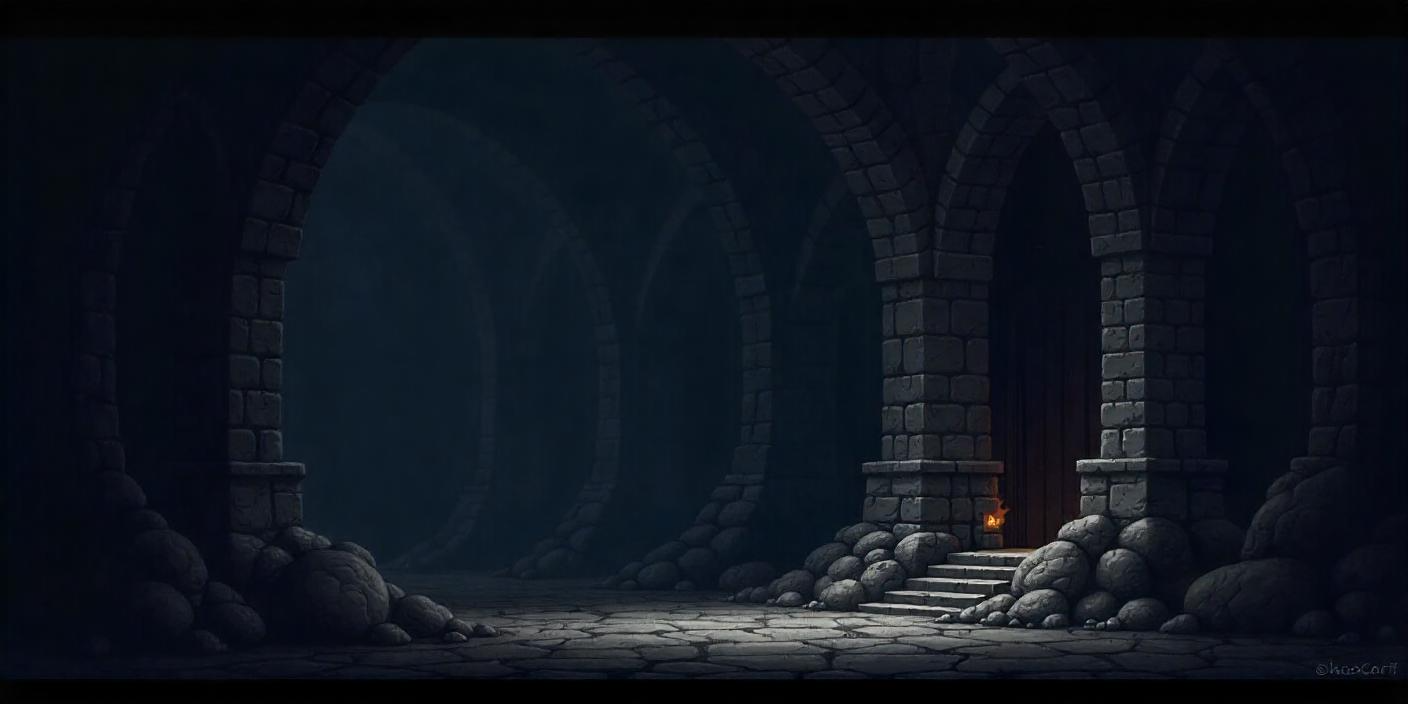
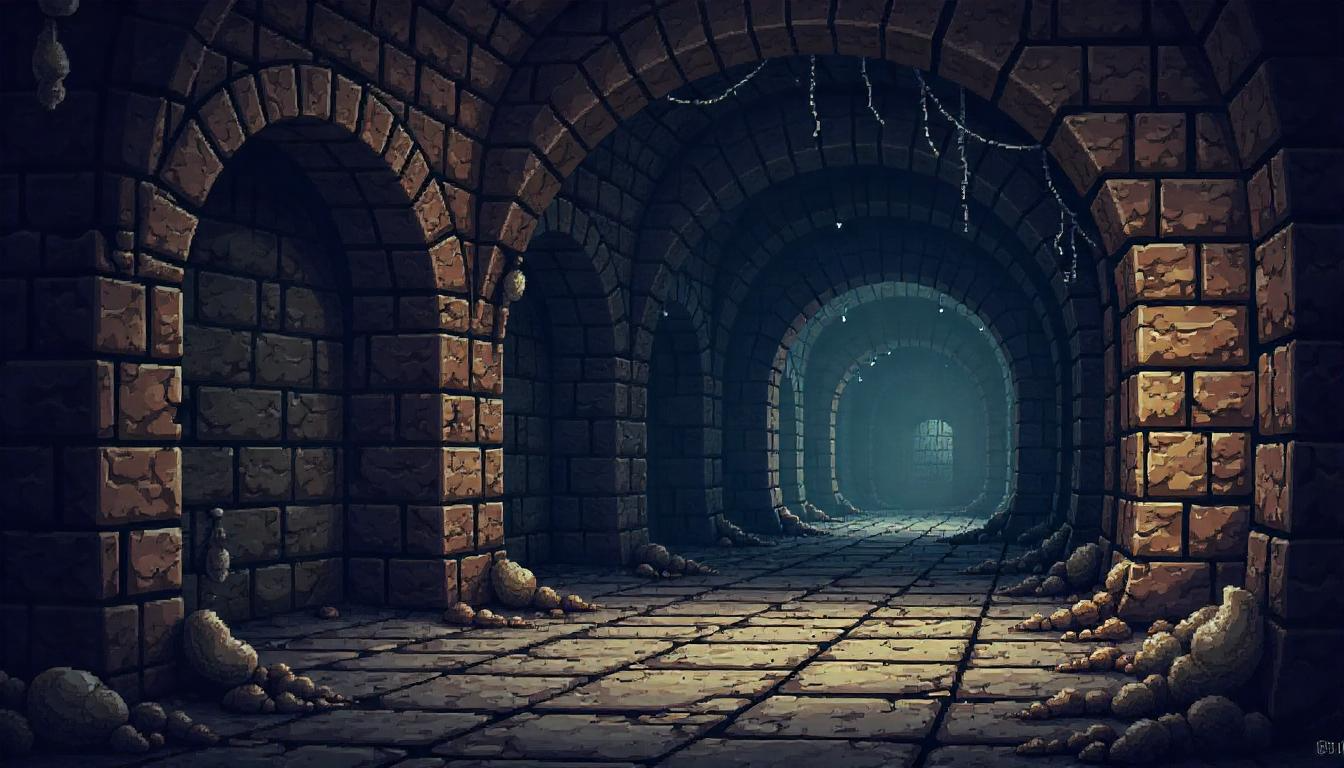
textury konec
dokonceni textur a lvls

diff --git a/Frank's maze.py b/Frank's maze.py
@@ -33,11 +33,9 @@ BLACK = (0, 0, 0)  # Barva stěn
 GREEN = (0, 0, 0)  # Barva pozadí
 BROWN=(169,66,19) #casovac
 
-
 Background_menu = pygame.image.load('background.png')
 image_width, image_height = Background_menu.get_size()
 pomer_stran = image_width / image_height
-# Nové rozměry, které zachovají poměr stran a přizpůsobí obrázek obrazovce
 if Hlavni_screen_X / Hlavni_screen_Y > pomer_stran:
     new_width = int(Hlavni_screen_Y * pomer_stran)
     new_height = Hlavni_screen_Y
@@ -51,111 +49,40 @@ Obraz = pygame.display.set_mode((Hlavni_screen_X, Hlavni_screen_Y))
 
 start_button = pygame.image.load('start_button.png')    
 quit_button = pygame.image.load('quit_button.png')
-
 start_button_rect = start_button.get_rect()
-quit_button_rect = quit_button.get_rect()
-
+quit_button_rect = quit_button.get_rect()                      #buttons
 start_button_rect.topleft = ((Hlavni_screen_X - start_button_rect.width) // 2, (Hlavni_screen_Y // 2) - 200)  
 quit_button_rect.topleft = ((Hlavni_screen_X - quit_button_rect.width) // 2, (Hlavni_screen_Y // 2) + 395)  
 
 velikost_policka = 40
 Herni_okno_X = 1400
-Herni_okno_Y = 800
-Herni_okno = pygame.Surface((Herni_okno_X, Herni_okno_Y))
-background_herni = pygame.image.load("background_herni_image.png")
-background_herni = pygame.transform.scale(background_herni, (Herni_okno_X, Herni_okno_Y))
+Herni_okno_Y = 800                       
 
-maze_lvl_1 = [
- [1, 1, 1, 1, 1, 1, 1, 1, 1, 1, 1, 1, 1, 1, 1, 1, 1, 1, 1, 1, 1, 1, 1, 1, 1, 1, 1, 1, 1, 1, 1, 1, 1, 1, 1],
-[1, 0, 2, 0, 0, 0, 0, 0, 0, 0, 0, 0, 1, 0, 0, 0, 0, 0, 0, 0, 1, 0, 0, 0, 0, 0, 0, 0, 0, 0, 0, 0, 0, 0, 1],
-[1, 0, 1, 1, 1, 1, 1, 0, 1, 1, 1, 0, 1, 0, 1, 1, 1, 1, 1, 0, 1, 0, 1, 1, 1, 1, 1, 1, 1, 1, 1, 1, 1, 0, 1],
-[1, 0, 1, 0, 0, 1, 0, 0, 0, 1, 0, 0, 0, 0, 0, 0, 0, 0, 1, 0, 0, 0, 1, 0, 0, 0, 0, 0, 0, 0, 0, 0, 1, 0, 1],
-[1, 0, 1, 1, 0, 1, 1, 1, 0, 0, 1, 1, 1, 1, 1, 1, 1, 0, 1, 1, 1, 1, 1, 0, 1, 1, 1, 1, 1, 1, 1, 0, 1, 1, 1],
-[1, 0, 0, 0, 0, 0, 0, 0, 1, 0, 0, 0, 0, 0, 0, 0, 0, 0, 0, 0, 0, 0, 0, 0, 1, 0, 0, 0, 0, 0, 0, 0, 1, 0, 1],
-[1, 1, 1, 1, 1, 1, 1, 0, 1, 0, 1, 1, 1, 1, 1, 1, 1, 1, 1, 0, 1, 0, 1, 1, 1, 0, 1, 1, 1, 1, 0, 1, 1, 0, 1],
-[1, 0, 0, 0, 0, 0, 0, 0, 1, 0, 0, 0, 0, 0, 1, 0, 0, 0, 0, 0, 1, 0, 0, 0, 0, 0, 0, 0, 0, 0, 0, 0, 0, 0, 0 ,1],
-[1, 0, 1, 1, 1, 1, 1, 1, 1, 1, 1, 1, 1, 0, 1, 0, 1, 1, 1, 1, 1, 0, 1, 1, 1, 1, 1, 1, 1, 1, 1, 1, 1, 1, 0 ,1],
-[1, 0, 0, 0, 0, 0, 0, 0, 0, 0, 0, 0, 1, 0, 1, 0, 0, 0, 0, 0, 1, 0, 0, 0, 0, 1, 0, 0, 0, 0, 0, 0, 0, 0, 0 ,1],
-[1, 1, 0, 1, 1, 1, 1, 1, 1, 1, 1, 0, 1, 0, 1, 1, 1, 1, 1, 0, 1, 1, 1, 1, 1, 1, 1, 1, 1, 1, 1, 1, 1, 0, 1],
-[1, 0, 0, 0, 0, 0, 1, 0, 0, 0, 0, 0, 1, 0, 0, 0, 0, 0, 1, 0, 0, 0, 0, 0, 0, 0, 0, 0, 0, 0, 0, 0, 1, 0, 1],
-[1, 0, 1, 1, 1, 0, 1, 0, 1, 1, 1, 1, 1, 1, 1, 1, 1, 0, 1, 1, 1, 1, 1, 0, 1, 1, 1, 1, 1, 1, 1, 0, 1, 0, 1],
-[1, 0, 1, 0, 0, 0, 1, 0, 0, 0, 0, 0, 0, 0, 0, 0, 1, 0, 0, 0, 0, 0, 0, 0, 0, 0, 0, 0, 0, 0, 1, 0, 1, 0, 1],
-[1, 0, 1, 0, 1, 1, 1, 1, 1, 0, 1, 1, 1, 1, 1, 0, 1, 1, 1, 1, 1, 1, 1, 1, 1, 1, 0, 1, 1, 0, 1, 0, 1, 0, 1],
-[1, 0, 1, 0, 0, 0, 0, 0, 0, 0, 0, 0, 0, 0, 1, 0, 0, 0, 0, 0, 0, 1, 0, 0, 0, 0, 0, 0, 1, 0, 1, 0, 0, 0, 1],
-[1, 0, 1, 0, 1, 1, 1, 1, 1, 1, 1, 1, 1, 0, 1, 1, 0, 1, 1, 1, 0, 1, 1, 1, 1, 1, 1, 0, 1, 0, 1, 1, 1, 0, 1],
-[1, 0, 0, 0, 0, 0, 0, 0, 0, 0, 0, 0, 1, 0, 0, 1, 0, 1, 0, 0, 0, 0, 0, 0, 0, 0, 1, 0, 1, 0, 0, 0, 1, 0, 1],
-[1, 1, 1, 0, 1, 1, 1, 1, 1, 1, 1, 0, 1, 1, 1, 1, 0, 1, 1, 1, 1, 1, 1, 1, 1, 0, 1, 0, 1, 1, 1, 1, 1, 0, 1],
-[1, 0, 0, 0, 0, 0, 0, 0, 1, 0, 0, 0, 0, 0, 0, 0, 0, 0, 1, 0, 0, 0, 0, 0, 0, 0, 1, 0, 0, 0, 0, 0, 1, 2, 1],
-[1, 1, 1, 1, 1, 1, 1, 1, 1, 1, 1, 1, 1, 1, 1, 1, 1, 1, 1, 1, 1, 1, 1, 1, 1, 1, 1, 1, 1, 1, 1, 1, 1, 1, 1],
+Herni_okno = pygame.Surface((Herni_okno_X, Herni_okno_Y))
+
+#pozadi lvls
+background_lvls = [
+    pygame.image.load('Background_herni_image1.png'),  
+    pygame.image.load('Background_herni_image2.png'),  
+    pygame.image.load('Background_herni_image3.png'),  
+    pygame.image.load('Background_herni_image4.png')   
 ]
-maze_lvl_2 = [
-[1, 1, 1, 1, 1, 1, 1, 1, 1, 1, 1, 1, 1, 1, 1, 1, 1, 1, 1, 1, 1, 1, 1, 1, 1, 1, 1, 1, 1, 0, 1, 1, 1, 1 ,1],
-[1, 0, 0, 0, 0, 1, 1, 0, 0, 0, 0, 0, 1, 0, 1, 0, 1, 0, 1, 1, 0, 0, 0, 1, 0, 0, 0, 1, 1, 0, 0, 0, 0, 0 ,1],
-[1, 1, 1, 1, 0, 0, 0, 0, 1, 1, 1, 0, 1, 0, 1, 0, 1, 0, 0, 1, 0, 1, 0, 1, 0, 1, 0, 0, 0, 0, 1, 1, 1, 0 ,1],
-[1, 0, 0, 0, 0, 1, 1, 0, 1, 0, 0, 0, 0, 0, 1, 0, 1, 1, 0, 0, 0, 1, 0, 0, 0, 0, 0, 1, 1, 1, 1, 0, 1, 0 ,1],
-[1, 0, 1, 1, 1, 1, 1, 0, 1, 0, 1, 1, 1, 0, 0, 0, 1, 0, 0, 1, 1, 1, 1, 1, 1, 1, 1, 1, 0, 0, 1, 0, 0, 0 ,1],
-[1, 0, 0, 0, 0, 0, 0, 0, 1, 0, 0, 1, 0, 0, 1, 0, 1, 0, 1, 1, 0, 0, 0, 0, 0, 0, 0, 0, 0, 0, 1, 1, 1, 1 ,1],
-[1, 0, 1, 1, 1, 1, 1, 1, 1, 1, 0, 1, 0, 1, 1, 0, 1, 0, 1, 1, 0, 1, 1, 1, 1, 1, 1, 1, 1, 0, 0, 0, 0, 0 ,1],
-[1, 0, 0, 0, 1, 1, 1, 1, 0, 0, 0, 1, 0, 1, 0, 0, 1, 0, 0, 0, 0, 1, 1, 0, 0, 0, 0, 0, 1, 1, 1, 1, 1, 0 ,1],
-[1, 1, 1, 0, 1, 0, 0, 0, 0, 1, 0, 1, 0, 0, 0, 1, 1, 1, 0, 1, 0, 0, 1, 0, 1, 1, 0, 0, 0, 0, 0, 0, 1, 0 ,1],
-[1, 0, 0, 0, 1, 0, 1, 1, 1, 1, 0, 1, 0, 1, 1, 1, 0, 1, 0, 1, 0, 0, 1, 0, 1, 1, 1, 1, 1, 1, 1, 1, 1, 0 ,1],
-[1, 0, 0, 0, 0, 0, 1, 0, 0, 0, 0, 1, 0, 1, 0, 0, 0, 0, 0, 1, 1, 1, 1, 0, 0, 0, 0, 0, 0, 0, 0, 0, 0, 0 ,1],
-[1, 0, 1, 1, 1, 1, 1, 0, 1, 1, 1, 1, 0, 1, 1, 1, 1, 0, 1, 1, 1, 0, 1, 1, 1, 1, 1, 1, 1, 1, 1, 1, 1, 1 ,1],
-[1, 0, 0, 0, 0, 0, 0, 0, 1, 1, 0, 0, 0, 1, 0, 0, 0, 0, 1, 0, 0, 0, 0, 0, 0, 0, 0, 0, 0, 0, 0, 0, 0, 0 ,0,1],
-[1, 1, 1, 1, 1, 1, 1, 1, 1, 1, 0, 1, 1, 1, 0, 1, 1, 1, 1, 1, 1, 0, 1, 1, 0, 1, 0, 1, 1, 0, 1, 1, 1, 0 ,1],
-[1, 0, 0, 0, 0, 0, 1, 0, 0, 0, 0, 1, 1, 0, 0, 1, 0, 0, 0, 0, 1, 0, 1, 1, 0, 1, 0, 1, 1, 0, 1, 0, 1, 0 ,1],
-[1, 0, 1, 1, 0, 1, 1, 0, 1, 1, 1, 1, 1, 0, 1, 1, 0, 1, 1, 1, 1, 0, 1, 0, 0, 1, 0, 1, 0, 0, 0, 0, 1, 0 ,1],
-[1, 0, 0, 1, 0, 0, 0, 0, 0, 0, 0, 0, 0, 0, 1, 1, 0, 1, 1, 0, 1, 0, 1, 0, 1, 1, 0, 1, 0, 1, 1, 0, 1, 0 ,1],
-[1, 1, 0, 1, 0, 1, 1, 1, 1, 1, 1, 1, 1, 1, 1, 0, 0, 0, 0, 0, 1, 0, 1, 0, 1, 0, 0, 1, 0, 0, 1, 1, 1, 1 ,1],
-[1, 0, 0, 0, 0, 0, 0, 0, 0, 0, 0, 0, 0, 0, 0, 0, 0, 1, 1, 0, 0, 0, 1, 0, 0, 0, 1, 1, 0, 0, 0, 0, 0, 2 ,1],
-[1, 1, 1, 1, 1, 1, 1, 1, 1, 1, 1, 1, 1, 1, 1, 1, 1, 1, 1, 1, 1, 1, 1, 1, 1, 1, 1, 1, 1, 1, 1, 1, 1, 1, 1],
- ]
-maze_lvl_3 = [
-[1, 1, 1, 1, 1, 1, 1, 1, 1, 1, 1, 1, 1, 1, 1, 1, 1, 1, 1, 1, 1, 1, 1, 1, 1, 1, 1, 1, 1, 1, 1, 1, 1, 1 ,1],
-[1, 0, 0, 0, 0, 0, 0, 0, 0, 0, 0, 0, 1, 1, 1, 1, 1, 1, 0, 0, 0, 0, 0, 0, 0, 0, 1, 0, 0, 0, 0, 0, 0, 0 ,0,1],
-[1, 0, 1, 1, 1, 1, 1, 1, 1, 1, 1, 0, 0, 0, 0, 0, 0, 1, 0, 1, 1, 1, 1, 1, 0, 1, 1, 0, 1, 1, 0, 1, 1, 1 ,0,1],
-[1, 0, 1, 1, 0, 0, 0, 0, 0, 0, 0, 1, 1, 1, 1, 1, 0, 1, 0, 1, 0, 0, 0, 1, 0, 0, 1, 0, 1, 0, 0, 0, 0, 1 ,0,1],
-[1, 0, 1, 1, 1, 1, 0, 1, 1, 1, 1, 0, 0, 1, 0, 1, 0, 0, 0, 0, 0, 1, 0, 1, 1, 1, 1, 0, 1, 1, 1, 1, 0, 1 ,0,1],
-[1, 0, 0, 0, 0, 0, 0, 0, 0, 1, 0, 0, 1, 1, 0, 1, 0, 1, 1, 1, 1, 1, 0, 0, 0, 0, 0, 0, 0, 1, 0, 0, 0, 1 ,0,1],
-[1, 0, 1, 1, 1, 1, 1, 1, 0, 0, 0, 1, 0, 0, 0, 0, 0, 0, 0, 0, 0, 1, 1, 1, 1, 1, 1, 1, 1, 1, 1, 1, 1, 1 ,0,1],
-[1, 0, 0, 0, 1, 0, 0, 0, 1, 1, 0, 0, 0, 1, 1, 1, 1, 0, 1, 1, 0, 0, 1, 0, 0, 0, 1, 0, 0, 0, 0, 0, 0, 0 ,0,1],
-[1, 1, 1, 0, 0, 0, 1, 1, 1, 0, 1, 1, 1, 0, 0, 0, 1, 0, 0, 0, 1, 0, 1, 0, 1, 0, 0, 0, 1, 1, 1, 1, 1, 1 ,1],
-[1, 1, 1, 1, 0, 1, 1, 1, 1, 0, 0, 0, 0, 0, 1, 0, 1, 1, 1, 1, 0, 0, 1, 1, 1, 0, 1, 0, 1, 0, 0, 0, 0, 0 ,0 ,1],
-[1, 0, 0, 0, 0, 0, 0, 0, 0, 0, 1, 1, 1, 1, 1, 0, 0, 0, 0, 0, 1, 1, 0, 0, 1, 0, 1, 0, 1, 1, 1, 1, 1, 1 ,0 ,1],
-[1, 0, 1, 1, 1, 1, 1, 1, 1, 1, 1, 0, 0, 0, 0, 1, 1, 0, 1, 0, 1, 1, 1, 0, 0, 0, 1, 0, 0, 0, 0, 0, 0, 0 ,0 ,1],
-[1, 0, 0, 0, 0, 0, 0, 0, 0, 0, 1, 0, 1, 1, 0, 0, 0, 0, 0, 1, 0, 0, 0, 0, 1, 0, 1, 0, 1, 0, 1, 1, 1, 1 ,1],
-[1, 0, 1, 1, 0, 1, 1, 1, 1, 0, 0, 0, 0, 0, 0, 1, 1, 0, 1, 1, 1, 1, 1, 1, 1, 0, 0, 0, 1, 0, 0, 0, 0, 1 ,0,1],
-[1, 0, 1, 0, 0, 0, 0, 0, 0, 1, 1, 1, 0, 1, 0, 0, 0, 0, 1, 0, 1, 0, 1, 0, 1, 1, 0, 1, 1, 1, 0, 1, 0, 0 ,0,1],
-[1, 0, 1, 1, 1, 1, 1, 1, 0, 0, 0, 0, 0, 0, 0, 1, 1, 0, 0, 0, 0, 0, 0, 0, 0, 0, 0, 1, 1, 1, 0, 1, 1, 1 ,1],
-[1, 0, 0, 0, 0, 1, 0, 0, 1, 1, 1, 1, 1, 1, 1, 1, 0, 1, 1, 1, 1, 1, 1, 1, 1, 1, 0, 0, 0, 0, 0, 0, 0, 0 ,0,1],
-[1, 1, 1, 1, 0, 1, 0, 1, 1, 1, 1, 1, 0, 1, 0, 0, 0, 1, 0, 0, 0, 0, 0, 0, 1, 1, 1, 1, 1, 1, 1, 1, 1, 1 ,1],
-[1, 0, 0, 0, 0, 0, 0, 0, 0, 0, 0, 0, 0, 0, 0, 1, 0, 1, 0, 1, 0, 1, 1, 0, 0, 0, 0, 0, 0, 0, 0, 0, 0, 0 ,1],
-[1, 1, 1, 1, 1, 1, 1, 1, 1, 1, 0, 1, 1, 1, 1, 1, 0, 0, 0, 1, 0, 0, 0, 0, 1, 1, 2, 1, 0, 1, 1, 1, 1, 1 ,1],
-[1, 1, 1, 1, 1, 1, 1, 1, 1, 1, 1, 1, 1, 1, 1, 1, 1, 1, 1, 1, 1, 1, 1, 1, 1, 1, 1, 1, 1, 1, 1, 1, 1, 1 ,1],
+
+def load_maze_from_file(filename):
+    maze = []
+    with open(filename, 'r') as file:
+        for line in file:
+            row = [int(x) for x in line.strip().split()]
+            maze.append(row)
+    return maze
+
+maze_lvls = [
+    load_maze_from_file("level1.txt"), 
+    load_maze_from_file("level2.txt"), 
+    load_maze_from_file("level3.txt"),        #nacteni z txt souboru
+    load_maze_from_file("level4.txt")
 ]
-maze_lvl_4 =[
-[1, 1, 1, 1, 1, 1, 1, 1, 1, 1, 1, 1, 1, 1, 1, 1, 1, 1, 1, 1, 1, 1, 1, 1, 1, 1, 1, 1, 1, 1, 1, 1, 1, 1,1],
-[1, 0, 1, 1, 1, 1, 1, 1, 1, 1, 1, 1, 1, 1, 1, 1, 1, 1, 1, 1, 1, 1, 1, 1, 0, 0, 0, 0, 0, 0,1,0,0,0,0,0,0],
-[1, 0, 0, 0, 0, 0, 0, 0, 0, 0, 0, 1, 0, 0, 0, 1, 0, 0, 0, 0, 1, 1, 1, 1, 0, 1, 1, 1, 1, 0, 1, 0, 1, 0,1],
-[1, 0, 1, 1, 1, 0, 1, 1, 1, 1, 0, 1, 0, 1, 1, 1, 0, 0, 1, 0, 1, 0, 1, 1, 1, 1, 0, 0, 1, 0, 1, 1, 1, 0,1],
-[1, 0, 1, 1, 1, 0, 0, 0, 0, 1, 0, 1, 0, 0, 0, 1, 1, 0, 1, 0, 1, 0, 1, 1, 0, 1, 1, 0, 1, 0, 1, 0, 1, 0,1],
-[1, 0, 1, 1, 1, 1, 1, 0, 1, 1, 0, 1, 1, 1, 0, 0, 0, 0, 1, 0, 1, 0, 1, 1, 0, 1, 1, 0, 1, 0, 1, 0, 1, 0,1],
-[1, 0, 0, 0, 0, 1, 1, 0, 1, 1, 0, 1, 1, 1, 0, 1, 1, 1, 1, 0, 1, 0, 0, 0, 0, 0, 0, 0, 1, 0, 0, 0, 1, 0,1],
-[1, 1, 1, 1, 1, 1, 1, 0, 1, 1, 1, 1, 0, 0, 0, 1, 1, 1, 0, 0, 1, 0, 1, 1, 1, 1, 1, 1, 1, 1, 1, 1, 1, 0,1],
-[1, 0, 0, 0, 0, 0, 0, 0, 1, 1, 1, 1, 1, 1, 0, 0, 0, 0, 0, 1, 1, 0, 0, 1, 0, 0, 0, 0, 0, 0, 0, 0, 0, 0,1],
-[1, 1, 1, 1, 1, 1, 1, 0, 0, 0, 0, 0, 1, 1, 0, 1, 1, 1, 1, 1, 1, 1, 0, 1, 1, 0, 1, 1, 1, 0, 1, 1, 1, 0,1],
-[1, 0, 1, 1, 0, 0, 0, 0, 1, 1, 1, 0, 0, 0, 0, 1, 1, 0, 0, 0, 1, 1, 0, 1, 1, 0, 1, 0, 1, 0, 1, 0, 1, 0,1],
-[1, 0, 1, 1, 0, 1, 1, 0, 1, 0, 0, 0, 1, 0, 1, 1, 1, 0, 1, 0, 0, 1, 0, 1, 1, 0, 1, 0, 1, 0, 1, 0, 1, 0,1],
-[1, 0, 0, 0, 0, 1, 1, 0, 1, 1, 1, 1, 1, 0, 1, 1, 1, 0, 1, 1, 0, 1, 0, 1, 1, 0, 1, 0, 1, 0, 1, 0, 0, 0,1],
-[1, 1, 1, 1, 0, 1, 1, 0, 1, 1, 1, 1, 1, 0, 0, 0, 0, 0, 1, 1, 0, 0, 0, 1, 1, 0, 1, 0, 0, 0, 1, 1, 0, 1,1],
-[1, 0, 1, 1, 1, 1, 1, 0, 1, 0, 0, 0, 0, 0, 1, 1, 1, 1, 1, 1, 0, 1, 1, 0, 0, 0, 1, 1, 0, 1, 1, 1, 0, 1,1],
-[1, 0, 1, 1, 0, 1, 1, 1, 1, 1, 0, 1, 0, 1, 1, 0, 0, 0, 0, 0, 0, 1, 0, 0, 1, 0, 1, 1, 0, 1, 1, 0, 0, 1,1],
-[1, 0, 1, 1, 0, 1, 1, 1, 1, 1, 0, 1, 0, 1, 1, 1, 1, 1, 0, 1, 1, 0, 0, 1, 1, 0, 1, 1, 0, 0, 1, 0, 1, 1,1],
-[1, 0, 0, 0, 0, 0, 0, 0, 0, 0, 0, 1, 0, 0, 0, 0, 1, 1, 0, 1, 1, 0, 1, 1, 1, 0, 1, 1, 1, 0, 1, 0, 1, 1,1],
-[1, 1, 1, 1, 1, 1, 1, 1, 1, 1, 1, 1, 1, 1, 1, 1, 1, 1, 1, 1, 1, 0, 0, 0, 0, 0, 1, 2, 0, 0, 1, 0, 0, 0,1],
-[1, 1, 1, 1, 1, 1, 1, 1, 1, 1, 1, 1, 1, 1, 1, 1, 1, 1, 1, 1, 1, 1, 1, 1, 1, 1, 1, 1, 1, 1, 1, 1, 1, 1,1],
-]
-maze_lvls = [maze_lvl_1, maze_lvl_2, maze_lvl_3, maze_lvl_4]
+
 aktualni_lvl = 0
 maze = maze_lvls[aktualni_lvl]
 
@@ -163,21 +90,18 @@ main_screen = True
 game_screen = False
 
 Hrac_velikost = 25
-Hrac_X = 40
+Hrac_X = 40                                 #hrac velikost
 Hrac_Y = 40
 Hrac_speed = 3
-
 Hrac_textura = pygame.image.load('hrac.png')
-Hrac_textura = pygame.transform.scale(Hrac_textura, (Hrac_velikost, Hrac_velikost))
-
+Hrac_textura = pygame.transform.scale(Hrac_textura, (Hrac_velikost, Hrac_velikost))    #hrac textura
 
 start_time = None  
-uplynulicas = 0  
+uplynulicas = 0                                                  #timer
 font = pygame.font.SysFont("Arial", 30)  
 
 def check_level_complete():
-    """Kontrola, zda hráč dokončil úroveň"""
-    global aktualni_lvl, maze, Hrac_X, Hrac_Y, main_screen, game_screen, start_time
+    global aktualni_lvl, maze, Hrac_X, Hrac_Y, main_screen, game_screen, start_time #dokoncil hrac uroven
     
     misto_x = (len(maze[0]) - 2) * velikost_policka
     misto_y = (len(maze) - 2) * velikost_policka
@@ -224,6 +148,8 @@ def zobraz_vizi(maze, player_x, player_y, radius=0):
                     Herni_okno.blit(exit_image, (sloupce * velikost_policka, radky * velikost_policka))
 
 smycka = True
+clock = pygame.time.Clock()  # Create clock object for controlling FPS
+
 while smycka:
     for event in pygame.event.get():
         if event.type == QUIT:
@@ -247,32 +173,37 @@ while smycka:
 
     if game_screen:
         Herni_okno.fill(GREEN)  
-        Herni_okno.blit(background_herni, (0, 0))
+
+        #aktualni pozadi
+        current_background = background_lvls[aktualni_lvl]
+        current_background = pygame.transform.scale(current_background, (Herni_okno_X, Herni_okno_Y))  # Přizpůsobení velikosti pozadí
+        Herni_okno.blit(current_background, (0, 0))  
 
         if start_time is None:
-            start_time = time.time() 
+            start_time = time.time()
         
         elapsed_time = time.time() - start_time
         
-        time_text = font.render(f"Time: {int(elapsed_time)}s", True, (BROWN))
-        Herni_okno.blit(time_text, (10,10)) 
+        time_text = font.render(f"Time: {int(elapsed_time)}s", True, (BROWN)) #barva
+        Herni_okno.blit(time_text, (10,10))  #timer
 
-        zobraz_vizi(maze, Hrac_X // velikost_policka, Hrac_Y // velikost_policka, radius=3)  # Tady je viditelnost
+        zobraz_vizi(maze, Hrac_X // velikost_policka, Hrac_Y // velikost_policka, radius=3)
 
+        # Pohyb 
         keys = pygame.key.get_pressed()
-        new_x, new_y = Hrac_X, Hrac_Y  
+        new_x, new_y = Hrac_X, Hrac_Y
 
         if keys[K_w]:
             new_y -= Hrac_speed
         if keys[K_s]:
-            new_y += Hrac_speed                # movement
+            new_y += Hrac_speed
         if keys[K_a]:
             new_x -= Hrac_speed
         if keys[K_d]:
             new_x += Hrac_speed
 
-        if not byla_kolize(new_x, new_y):  
-            Hrac_X, Hrac_Y = new_x, new_y 
+        if not byla_kolize(new_x, new_y):
+            Hrac_X, Hrac_Y = new_x, new_y
 
         Herni_okno.blit(Hrac_textura, (Hrac_X, Hrac_Y))
 
@@ -281,6 +212,8 @@ while smycka:
         Obraz.blit(Herni_okno, (Hlavni_screen_X // 2 - Herni_okno_X // 2, Hlavni_screen_Y // 2 - Herni_okno_Y // 2))
     
     pygame.display.update()
+
+    clock.tick(60) # 60 FPS
 
 pygame.quit()
 
